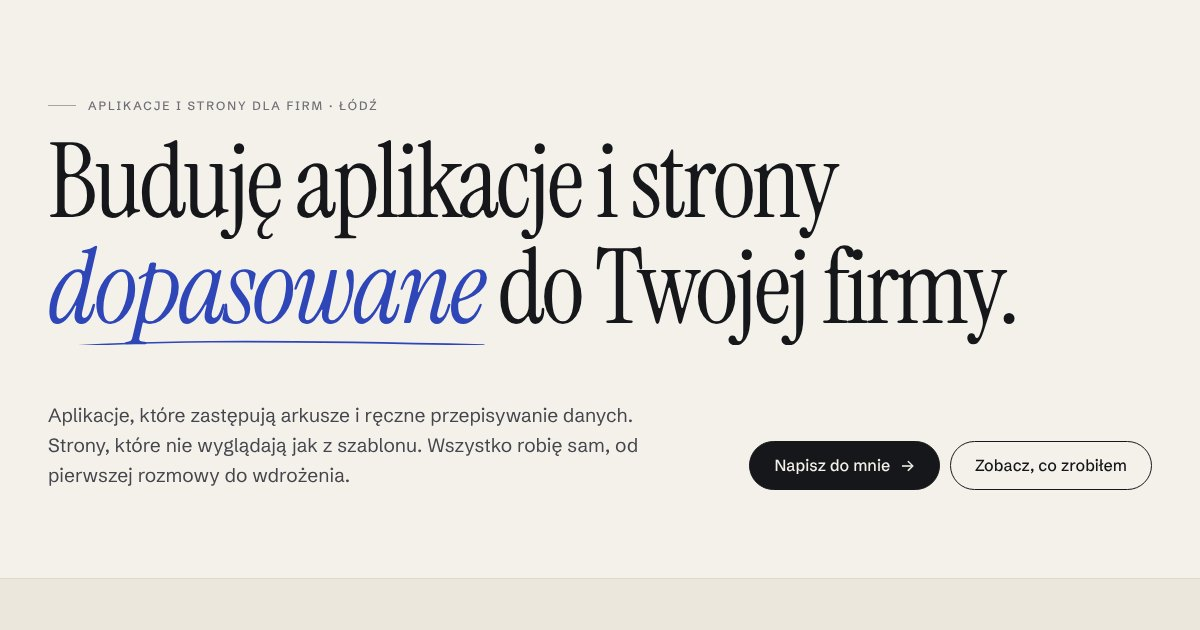
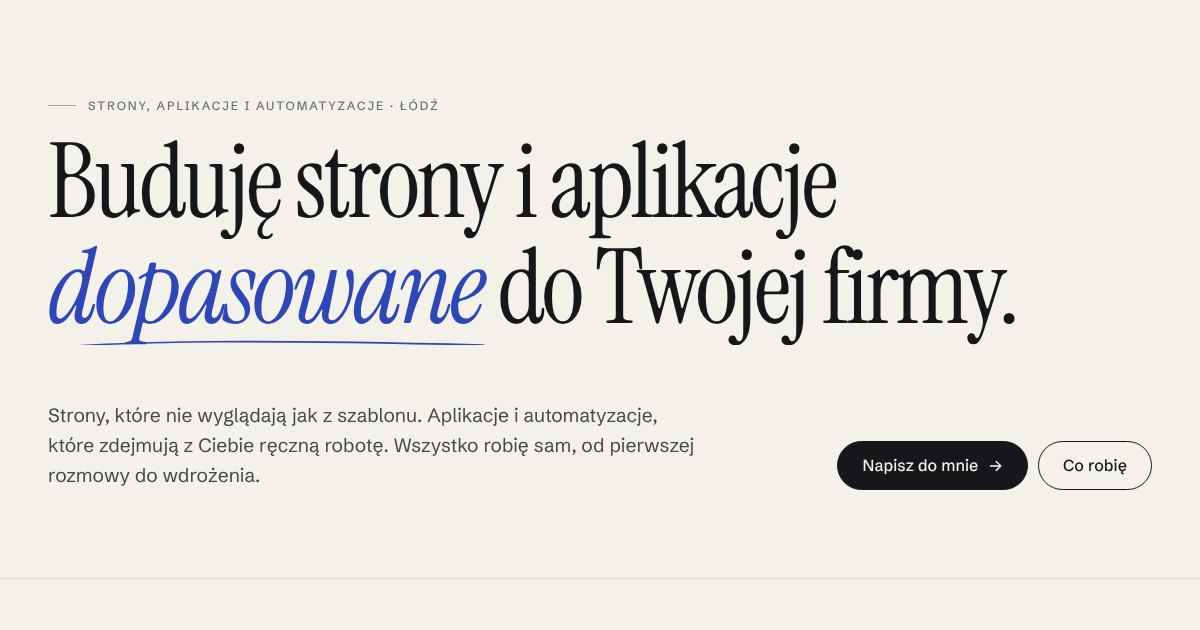
Krótka strona: strony premium, aplikacje, automatyzacje; bez dema i sekcji aplikacji
Claude-Session: https://claude.ai/code/session_01TKaCyV6hYkgup6Gdhb7jVW

diff --git a/index.html b/index.html
@@ -4,7 +4,7 @@ layout: default
 {%- assign strona = site.data.strony | first -%}
 
 <section id="start" class="szeroka start">
-  <p class="oczko pojaw">Aplikacje i strony dla firm · {{ site.miasto | default: "Łódź" }}</p>
+  <p class="oczko pojaw">Strony, aplikacje i automatyzacje · {{ site.miasto | default: "Łódź" }}</p>
   <h1 class="start-tytul">
     <span class="linia"><span>{{ site.naglowek_przed }}</span></span>
     <span class="linia"><span><em class="wyroznik">{{ site.naglowek_wyroznienie }}<svg viewBox="0 0 300 24" preserveAspectRatio="none" aria-hidden="true"><path pathLength="1" d="M3 17 C 60 7, 140 5, 297 13"/></svg></em>{{ site.naglowek_po }}</span></span>
@@ -13,14 +13,9 @@ layout: default
     <p class="start-wstep pojaw" style="--o:.55s">{{ site.wstep }}</p>
     <div class="guziki pojaw" style="--o:.7s">
       <a class="guzik" href="#kontakt">Napisz do mnie <span class="strzalka" aria-hidden="true">→</span></a>
-      <a class="guzik guzik-obrys" href="#aplikacje">Zobacz, co zrobiłem</a>
+      <a class="guzik guzik-obrys" href="#oferta">Co robię</a>
     </div>
   </div>
-  <dl class="liczby pojaw" style="--o:.85s">
-    <div><dt>2</dt><dd>własne aplikacje, które działają w sieci</dd></div>
-    <div><dt>2026</dt><dd>od kwietnia buduję dla siebie i dla firm</dd></div>
-    <div><dt>1</dt><dd>osoba: rozmawiasz z tym, kto to zbuduje</dd></div>
-  </dl>
 </section>
 
 {%- if strona %}
@@ -41,49 +36,28 @@ layout: default
 </div>
 {%- endif %}
 
-<section id="aplikacje" class="sekcja">
+<section id="oferta" class="sekcja">
   <div class="szeroka">
     <header class="sekcja-glowa odslon">
-      <p class="oczko"><span class="nr">01</span> Aplikacje</p>
-      <h2>Dwie własne aplikacje. <em>Obie</em> działają.</h2>
+      <p class="oczko"><span class="nr">01</span> Co robię</p>
+      <h2>Co mogę <em>dla Ciebie</em> zrobić.</h2>
     </header>
-
-    {%- for p in site.data.projekty %}
-    <article class="przypadek{% if p.widok == nil or p.widok == '' %} przypadek-tekst{% endif %}{% cycle '', ' odwrot' %} odslon">
-      <div class="przypadek-opis">
-        <p class="oczko">{{ p.dla_kogo }}</p>
-        <h3>{{ p.nazwa }}</h3>
-        <p class="przypadek-lead">{{ p.opis }}</p>
-        {%- if p.cechy %}
-        <ul class="punkty">
-          {%- for c in p.cechy %}<li>{{ c }}</li>{% endfor %}
-        </ul>
-        {%- endif %}
-        <dl class="fakty">
-          {% if p.start %}<div><dt>Start</dt><dd>{{ p.start }}</dd></div>{% endif %}
-          {% if p.efekt %}<div><dt>Efekt</dt><dd>{{ p.efekt }}</dd></div>{% endif %}
-        </dl>
-        <div class="guziki">
-          {% if p.film and p.film != "" %}<a class="guzik" href="{{ p.film }}" target="_blank" rel="noopener"><span class="play" aria-hidden="true"></span>Obejrzyj film</a>{% endif %}
-          <a class="guzik{% if p.film and p.film != '' %} guzik-obrys{% endif %}" href="{{ p.url }}" target="_blank" rel="noopener">{{ p.url | remove: "https://" | remove: "/" }} <span class="strzalka" aria-hidden="true">↗</span></a>
+    <div class="oferta">
+      {%- for o in site.data.oferta %}
+      <div class="oferta-wiersz odslon">
+        <span class="oferta-nr">0{{ forloop.index }}</span>
+        <h3>{{ o.nazwa }}</h3>
+        <div class="oferta-tresc">
+          <p>{{ o.opis }}</p>
+          {% if o.przyklady %}<p class="oferta-przyklady">{{ o.przyklady }}</p>{% endif %}
+          {%- if o.linki %}
+          <p class="oferta-linki">{{ o.linki_tytul }} {% for l in o.linki %}<a href="{{ l.url }}" target="_blank" rel="noopener">{{ l.nazwa }}<span aria-hidden="true"> ↗</span></a>{% unless forloop.last %}<span class="przecinek">,</span> {% endunless %}{% endfor %}</p>
+          {%- endif %}
         </div>
+        <a class="oferta-strzalka" href="#kontakt" aria-label="Napisz w sprawie: {{ o.nazwa }}"><svg viewBox="0 0 20 20" aria-hidden="true"><path d="M4 10h12M11 5l5 5-5 5"/></svg></a>
       </div>
-      {%- if p.widok == "korektor" %}
-      <div class="przypadek-obraz">
-        <div class="okno raport">
-          <div class="okno-pasek"><i></i><i></i><i></i><span>raport_rozdzial_03.pdf</span></div>
-          <p class="raport-tekst">Stary dom stał na końcu ulicy, tam gdzie <mark>kończyły się</mark> latarnie. Marta zatrzymała się przy furtce i <mark>przez chwilę</mark> słuchała, jak wiatr porusza <mark>okiennicami</mark>, zanim weszła do środka.</p>
-          <div class="raport-stopka"><span>3 rozbieżności z tekstem</span><span>strona 14</span></div>
-        </div>
-        <p class="podpis">Przykład zaznaczeń w raporcie. Na żółto miejsca, w których nagranie różni się od tekstu.</p>
-      </div>
-      {%- elsif p.widok == "zrzut" and p.zrzut %}
-      <div class="przypadek-obraz przypadek-telefon">
-        <div class="telefon"><img src="{{ p.zrzut | relative_url }}" alt="Ekran aplikacji {{ p.nazwa }}" loading="lazy" decoding="async"></div>
-      </div>
-      {%- endif %}
-    </article>
-    {%- endfor %}
+      {%- endfor %}
+    </div>
   </div>
 </section>
 
@@ -91,7 +65,7 @@ layout: default
 <section id="strony" class="sekcja">
   <div class="szeroka">
     <header class="sekcja-glowa odslon">
-      <p class="oczko"><span class="nr">02</span> Strony</p>
+      <p class="oczko"><span class="nr">02</span> Realizacje</p>
       <h2>Strona, po której od razu widać, <em>czym</em> się zajmujesz.</h2>
     </header>
     {%- for s in site.data.strony %}
@@ -119,29 +93,10 @@ layout: default
 </section>
 {%- endif %}
 
-<section id="oferta" class="sekcja">
-  <div class="szeroka">
-    <header class="sekcja-glowa odslon">
-      <p class="oczko"><span class="nr">{% if strona %}03{% else %}02{% endif %}</span> Oferta</p>
-      <h2>Co mogę <em>dla Ciebie</em> zrobić.</h2>
-    </header>
-    <div class="oferta">
-      {%- for o in site.data.oferta %}
-      <a class="oferta-wiersz odslon" href="#kontakt">
-        <span class="oferta-nr">0{{ forloop.index }}</span>
-        <h3>{{ o.nazwa }}</h3>
-        <p>{{ o.opis }}{% if o.przyklady %}<span>{{ o.przyklady }}</span>{% endif %}</p>
-        <span class="oferta-strzalka" aria-hidden="true"><svg viewBox="0 0 20 20"><path d="M4 10h12M11 5l5 5-5 5"/></svg></span>
-      </a>
-      {%- endfor %}
-    </div>
-  </div>
-</section>
-
 <section id="proces" class="sekcja">
   <div class="szeroka">
     <header class="sekcja-glowa odslon">
-      <p class="oczko"><span class="nr">{% if strona %}04{% else %}03{% endif %}</span> Jak pracuję</p>
+      <p class="oczko"><span class="nr">{% if strona %}03{% else %}02{% endif %}</span> Jak pracuję</p>
       <h2>Najpierw <em>widzisz</em>, potem decydujesz.</h2>
     </header>
     <ol class="kroki odslon">
@@ -149,19 +104,6 @@ layout: default
       <li style="--i:{{ forloop.index0 }}"><span class="krok-nr">0{{ forloop.index }}</span><h3>{{ k.nazwa }}</h3><p>{{ k.opis }}</p></li>
       {%- endfor %}
     </ol>
-  </div>
-</section>
-
-<section id="o-mnie" class="sekcja">
-  <div class="szeroka o-mnie odslon">
-    <div>
-      <p class="oczko"><span class="nr">{% if strona %}05{% else %}04{% endif %}</span> O mnie</p>
-      <h2>Rozmawiasz ze mną, <em>nie</em>&nbsp;z&nbsp;działem sprzedaży.</h2>
-    </div>
-    <div class="o-mnie-tekst">
-      <p>Jestem Emil, mieszkam w Łodzi. Wiosną 2026 ogłosiłem, że zajmuję się automatyzacją, a moją pierwszą aplikacją był Korektor Lektorski dla branży audiobooków.</p>
-      <p>Dziś rozwijam własne produkty i buduję aplikacje oraz strony dla firm. Pracuję z AI, dlatego robię szybciej i taniej niż agencja.</p>
-    </div>
   </div>
 </section>
 

diff --git a/assets/styl.css b/assets/styl.css
@@ -221,16 +221,20 @@ a:hover{color:var(--akcent-mocny)}
 .oferta-wiersz:hover{color:var(--tekst)}
 .oferta-nr{grid-column:1/-1;font-family:var(--szeryf);font-style:italic;font-size:1.25rem;color:var(--akcent)}
 .oferta-wiersz h3{font-size:clamp(2.2rem,4.4vw,3.6rem);line-height:1;margin:0;transition:transform .4s var(--wejscie)}
-.oferta-wiersz p{grid-column:1/-1;margin:0;color:var(--tekst-2);max-width:34em}
-.oferta-wiersz p span{display:block;margin-top:.7rem;font-size:.92rem;color:var(--tekst-3)}
-.oferta-strzalka{grid-row:2;grid-column:2;width:3.25rem;height:3.25rem;border-radius:50%;border:1px solid var(--tekst);display:grid;place-items:center;transition:background .3s,color .3s,transform .4s var(--wejscie)}
+.oferta-tresc{grid-column:1/-1;max-width:34em}
+.oferta-tresc p{margin:0;color:var(--tekst-2)}
+.oferta-tresc .oferta-przyklady{margin-top:.7rem;font-size:.92rem;color:var(--tekst-3)}
+.oferta-linki{margin-top:1rem !important;font-size:.95rem}
+.oferta-linki a{color:var(--tekst);text-decoration:none;background-image:linear-gradient(var(--zakreslacz),var(--zakreslacz));background-repeat:no-repeat;background-position:0 92%;background-size:100% .14em;transition:background-size .35s var(--wejscie)}
+.oferta-linki a:hover{color:var(--tekst);background-size:100% .55em}
+.oferta-strzalka{grid-row:2;grid-column:2;color:var(--tekst);width:3.25rem;height:3.25rem;border-radius:50%;border:1px solid var(--tekst);display:grid;place-items:center;transition:background .3s,color .3s,transform .4s var(--wejscie)}
 .oferta-strzalka svg{width:1.2rem;height:1.2rem;fill:none;stroke:currentColor;stroke-width:1.6;stroke-linecap:round;stroke-linejoin:round}
 .oferta-wiersz:hover .oferta-strzalka{background:var(--tekst);color:var(--tlo);transform:rotate(-45deg)}
 .oferta-wiersz:hover h3{transform:translateX(.4rem)}
 @media (min-width:60rem){
   .oferta-wiersz{grid-template-columns:5rem minmax(0,1fr) minmax(0,1.1fr) auto;gap:2.5rem;padding:3rem 0}
   .oferta-nr{grid-column:1;padding-top:.4rem}
-  .oferta-wiersz p{grid-column:3;padding-top:.5rem}
+  .oferta-tresc{grid-column:3;padding-top:.5rem}
   .oferta-strzalka{grid-row:1;grid-column:4}
 }
 

diff --git a/_includes/glowa.html b/_includes/glowa.html
@@ -3,7 +3,7 @@
 <meta name="viewport" content="width=device-width, initial-scale=1">
 {%- assign opis = page.opis | default: site.description -%}
 {%- assign adres = page.url | absolute_url -%}
-<title>{% if page.title %}{{ page.title }} | {{ site.title }}{% else %}{{ site.title }}: aplikacje i strony dla firm, Łódź{% endif %}</title>
+<title>{% if page.title %}{{ page.title }} | {{ site.title }}{% else %}{{ site.title }}: strony, aplikacje i automatyzacje dla firm, Łódź{% endif %}</title>
 <meta name="description" content="{{ opis | strip_html | normalize_whitespace | truncate: 160 }}">
 <link rel="canonical" href="{{ adres }}">
 <meta property="og:type" content="{% if page.layout == 'wpis' %}article{% else %}website{% endif %}">
@@ -47,7 +47,7 @@
     "@type": "Person",
     "name": {{ site.autor | jsonify }},
     "email": {{ site.email | jsonify }},
-    "jobTitle": "Twórca aplikacji i stron dla firm",
+    "jobTitle": "Strony, aplikacje i automatyzacje dla firm",
     "sameAs": [{{ site.linkedin | jsonify }}]
   }
 }

diff --git a/_includes/winieta.html b/_includes/winieta.html
@@ -3,8 +3,7 @@
   <div class="szeroka winieta-gora">
     <a class="znak" href="{{ '/' | relative_url }}#start">Emil <em>Wiktorski</em></a>
     <nav class="menu" aria-label="Nawigacja główna">
-      <a href="{{ '/' | relative_url }}#aplikacje">Aplikacje</a>
-      {% if site.data.strony and site.data.strony.size > 0 %}<a href="{{ '/' | relative_url }}#strony">Strony</a>{% endif %}
+      <a href="{{ '/' | relative_url }}#oferta">Co robię</a>
       <a href="{{ '/' | relative_url }}#proces">Jak pracuję</a>
     </nav>
     <a class="guzik guzik-maly" href="{{ '/' | relative_url }}#kontakt">Napisz do mnie</a>

diff --git a/_includes/stopka.html b/_includes/stopka.html
@@ -1,7 +1,7 @@
 <footer class="stopka">
   <div class="szeroka stopka-dol">
     <a class="znak" href="{{ '/' | relative_url }}#start">Emil <em>Wiktorski</em></a>
-    <span>Aplikacje i strony dla firm · {{ site.miasto | default: "Łódź" }}</span>
+    <span>Strony, aplikacje i automatyzacje · {{ site.miasto | default: "Łódź" }}</span>
     <span>© {{ site.time | date: "%Y" }} · <a href="{{ '/polityka-prywatnosci/' | relative_url }}">Polityka prywatności</a></span>
   </div>
 </footer>
